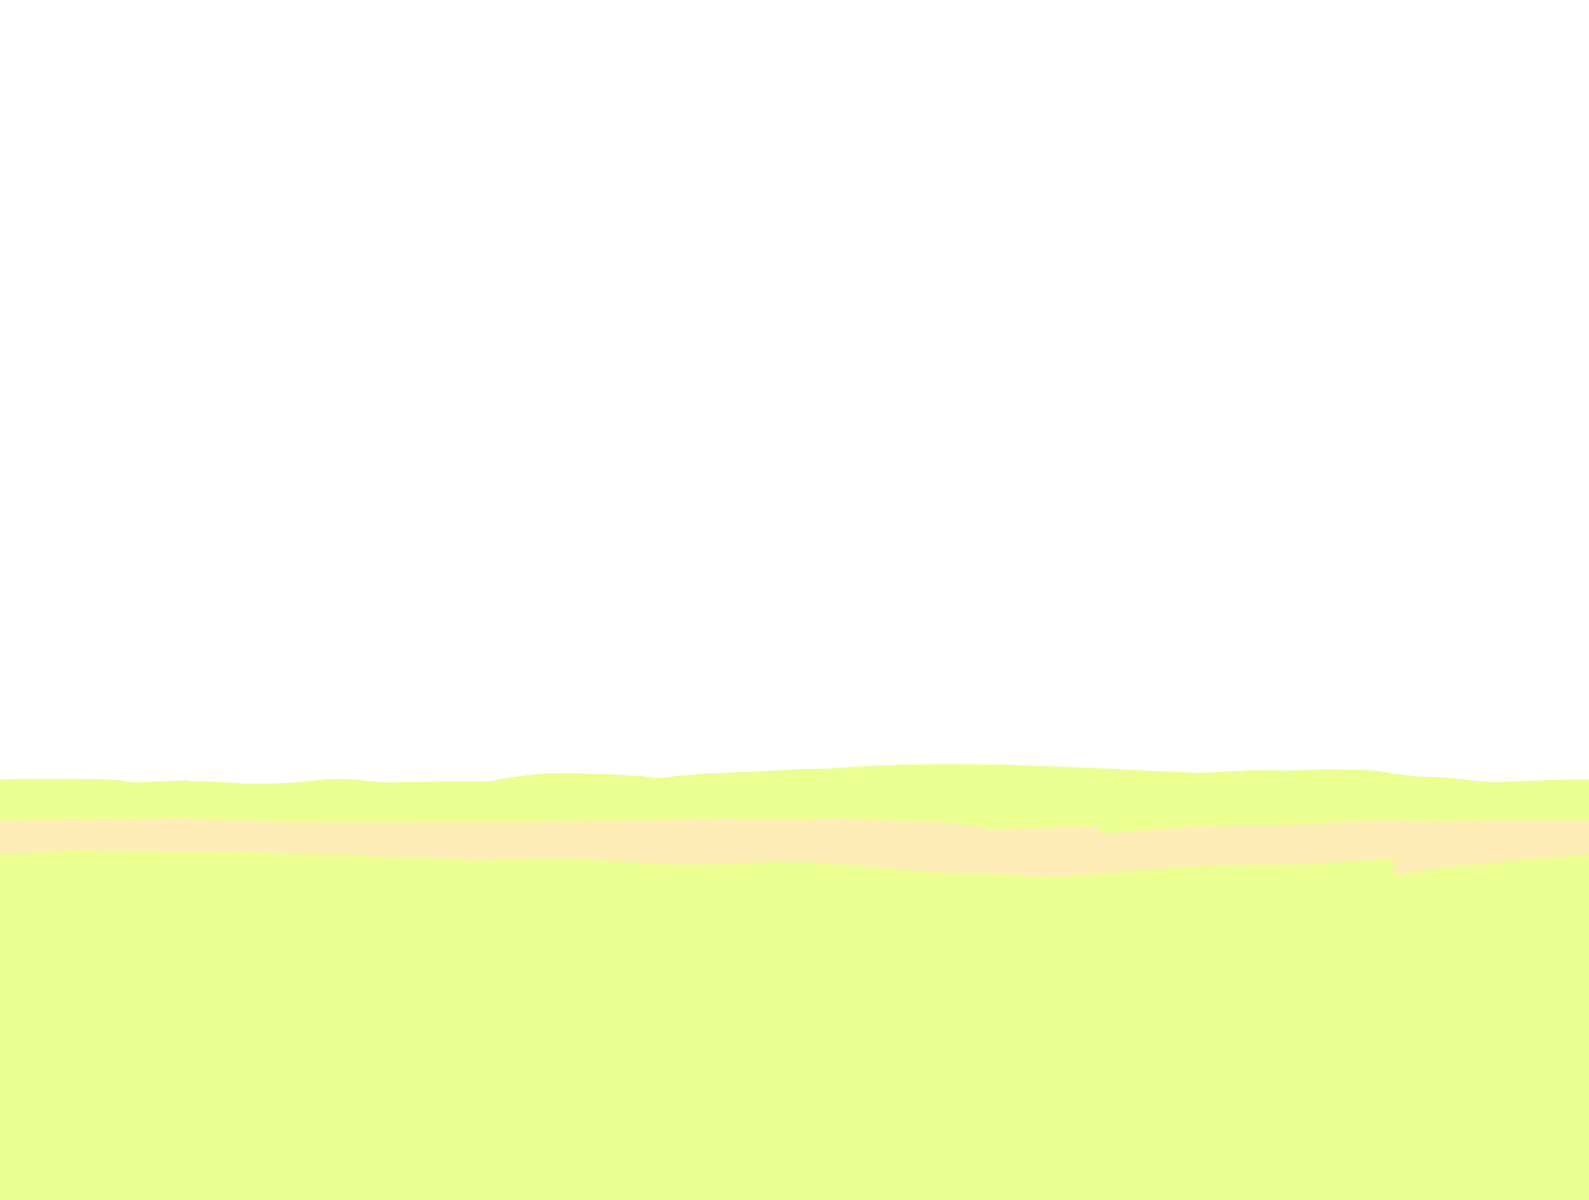
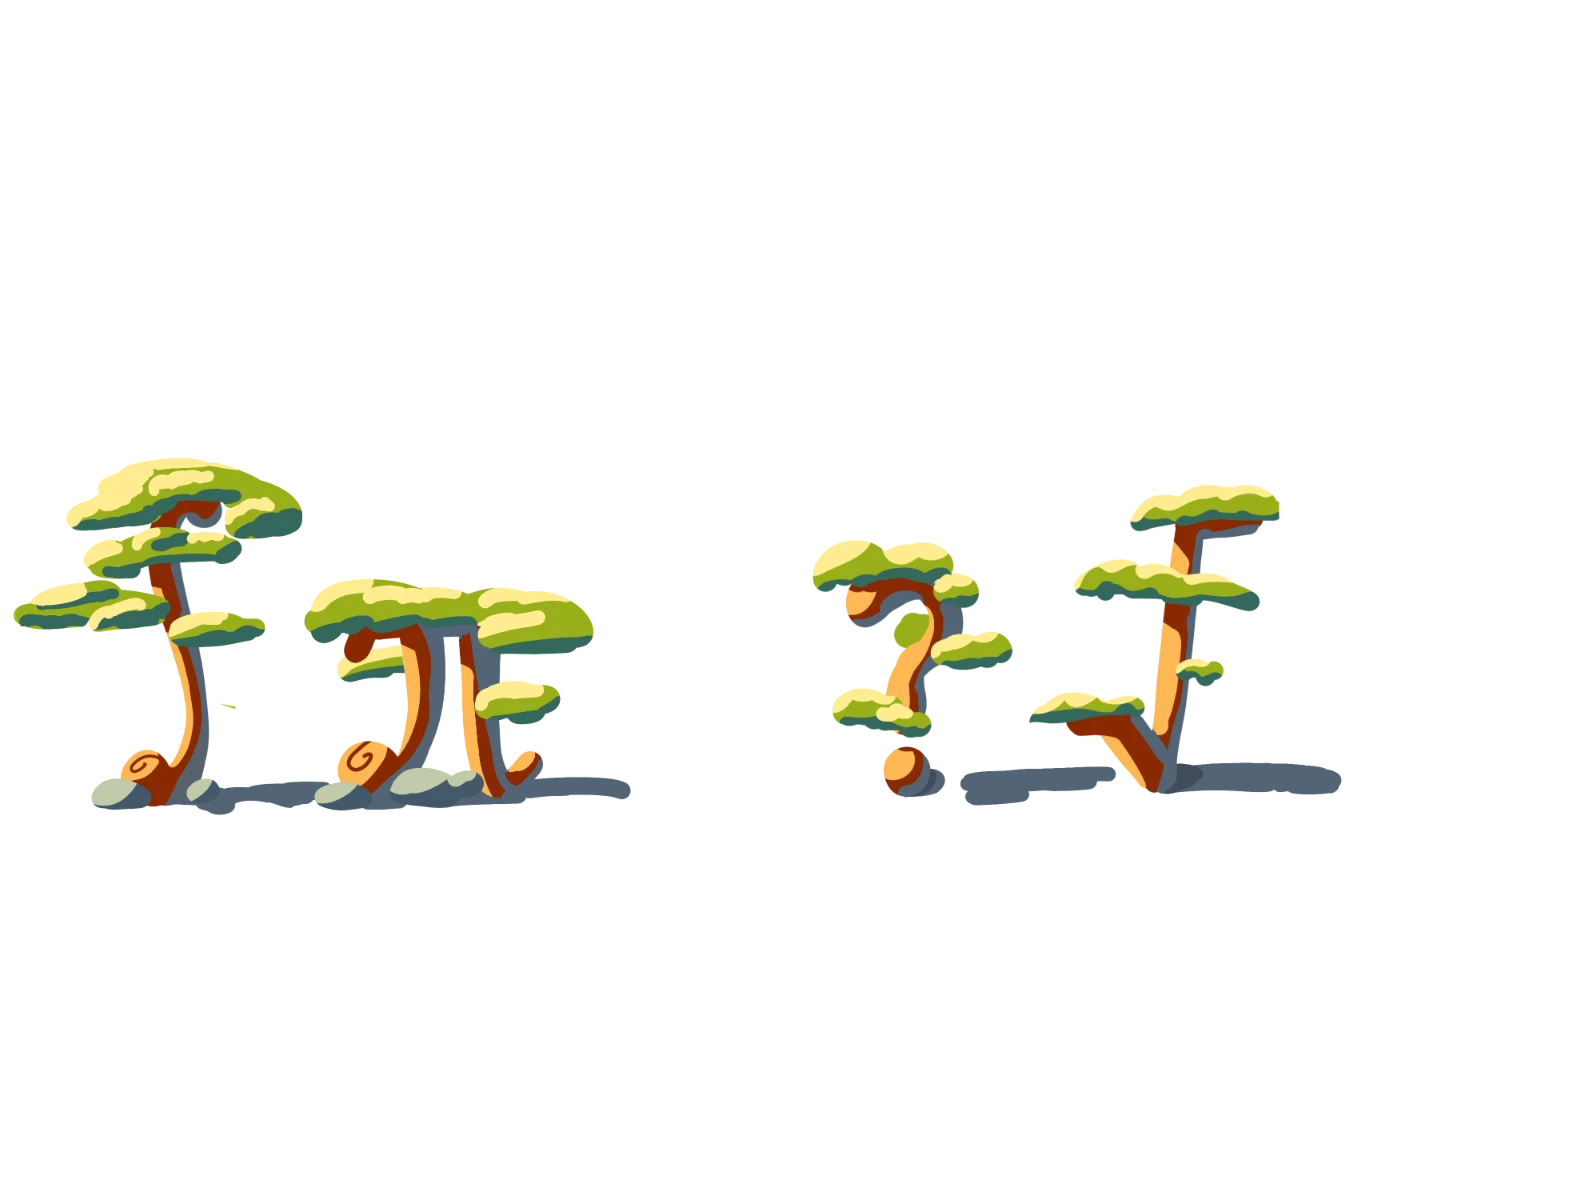
feat(auth): add login page, animations, and parallax assets

diff --git a/frontend/src/game/PhaserWorld.tsx b/frontend/src/game/PhaserWorld.tsx
@@ -74,7 +74,7 @@ const layers = [
       "../../assets/savannah parallax/Savannah Parallax/compressed/7.webp",
       import.meta.url,
     ).href,
-    speed: 0.28,
+    speed: 0.68,
   },
   {
     name: "savannah-8",
@@ -82,7 +82,7 @@ const layers = [
       "../../assets/savannah parallax/Savannah Parallax/compressed/8.webp",
       import.meta.url,
     ).href,
-    speed: 0.38,
+    speed: 0.76,
   },
   {
     name: "savannah-9",
@@ -90,7 +90,7 @@ const layers = [
       "../../assets/savannah parallax/Savannah Parallax/compressed/9.webp",
       import.meta.url,
     ).href,
-    speed: 0.5,
+    speed: 0.95,
   },
   {
     name: "savannah-10",
@@ -98,7 +98,7 @@ const layers = [
       "../../assets/savannah parallax/Savannah Parallax/compressed/10.webp",
       import.meta.url,
     ).href,
-    speed: 0.72,
+    speed: 1.05,
   },
   {
     name: "savannah-11",
@@ -106,17 +106,17 @@ const layers = [
       "../../assets/savannah parallax/Savannah Parallax/compressed/11.webp",
       import.meta.url,
     ).href,
-    speed: 1,
+    speed: 1.2,
   },
 ] as const;
-const ACTOR_SIZE = (1.5 / 2.54) * 96;
-const PLAYER_POSITION = { x: 102, y: 0 };
-const ENEMY_POSITION = { x: 244, y: 0 };
+const ACTOR_SIZE = (1.7 / 2.54) * 96;
+const PLAYER_POSITION = { x: 102, y: 35 };
+const ENEMY_POSITION = { x: 244, y: 35 };
 const ACTOR_DEPTH = layers.length - 1.5;
 const FOREGROUND_DEPTH = layers.length - 1;
-const BACKGROUND_HEIGHT = 480;
+const BACKGROUND_HEIGHT = 300;
 const BACKGROUND_WIDTH = (BACKGROUND_HEIGHT * 3973) / 3000;
-const BACKGROUND_BASELINE = 657 / 844;
+const BACKGROUND_BASELINE = 500 / 844;
 export type WorldControls = {
   model: FantasyGame;
   act: (action: () => void) => void;
